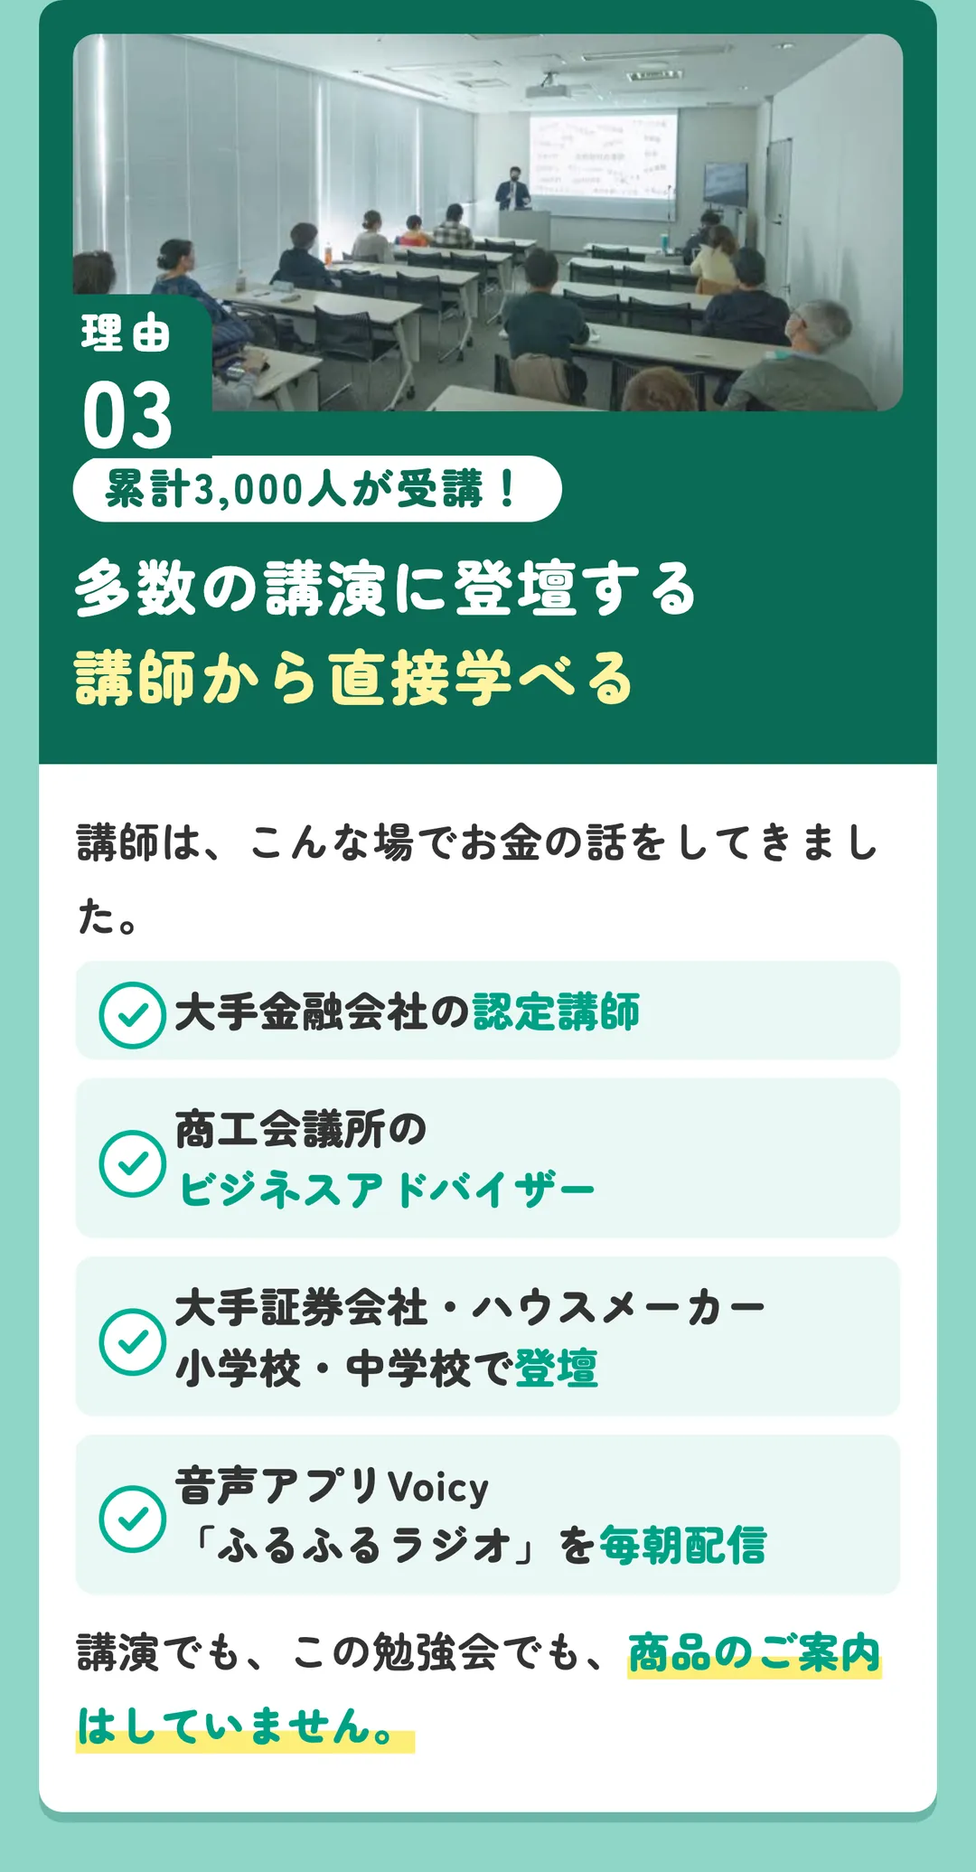
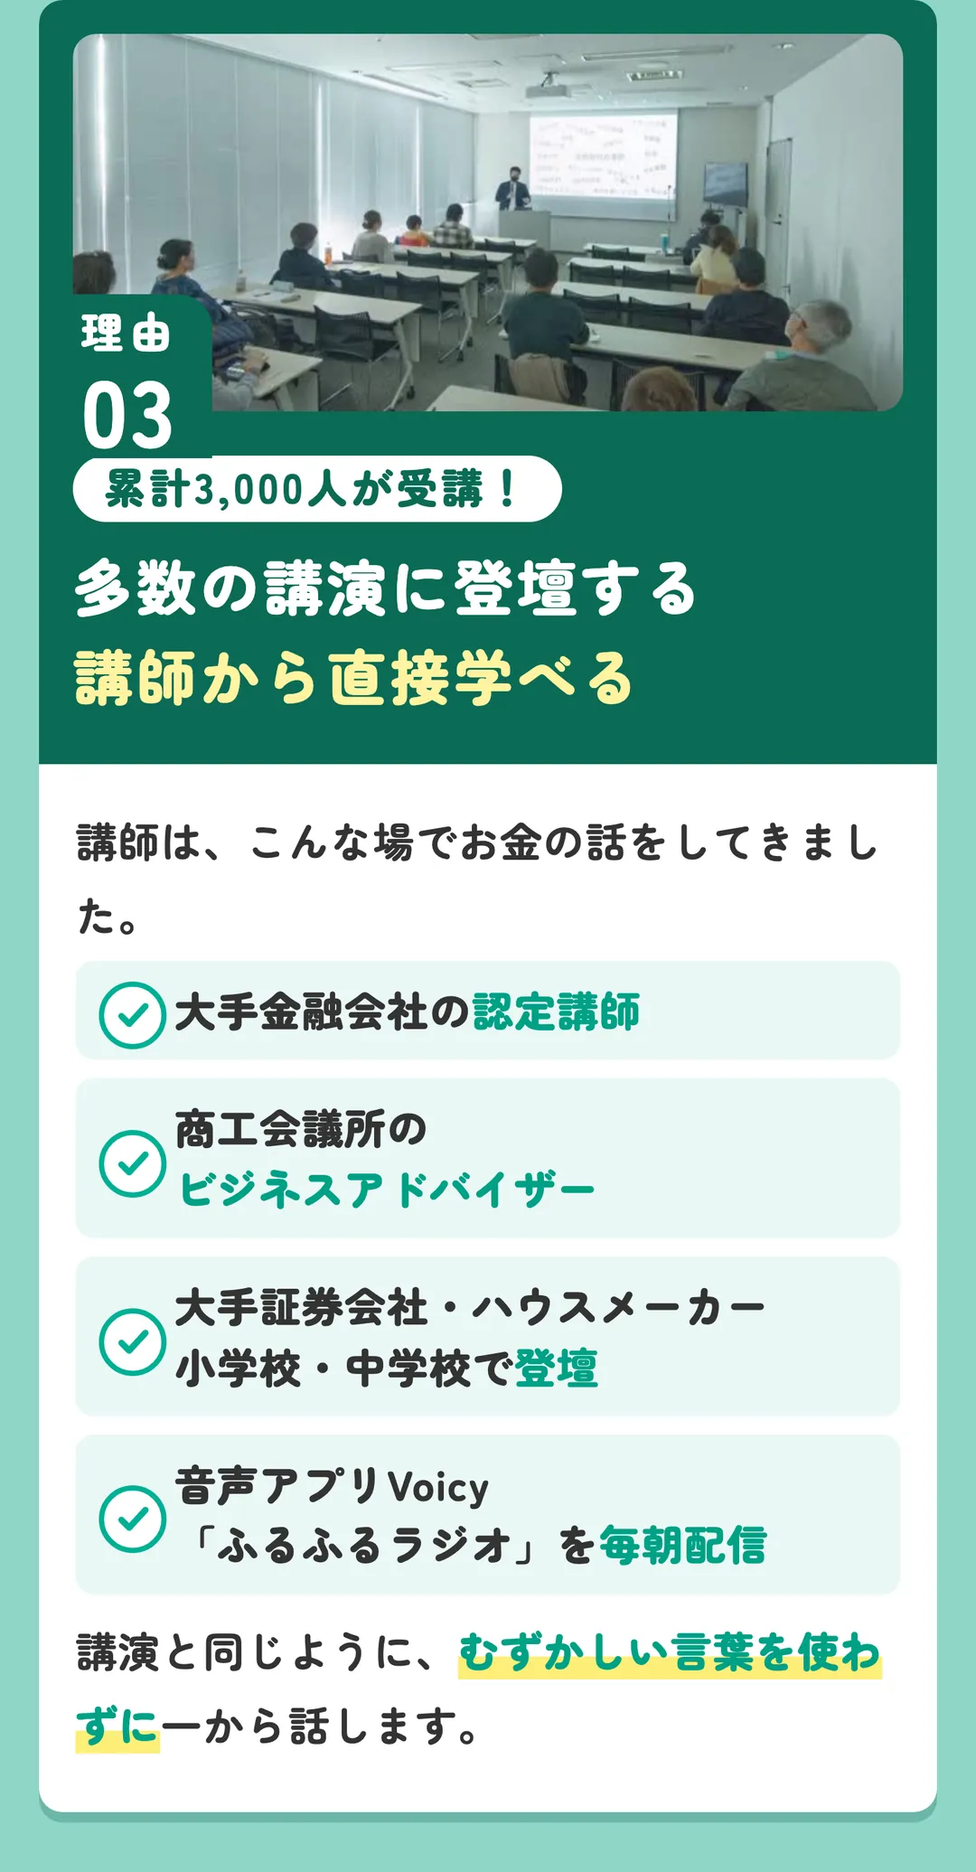
lp・lp-old: 打ち消しの安心文2か所と「10万円を100万円に」を外し、元本割れの注を足す（二次点検）

Changed region(s): [[0.0611, 0.8653, 0.9167, 0.958]]

diff --git a/lp-old/index.html b/lp-old/index.html
@@ -53,7 +53,6 @@ footer li{margin:0 0 6px}
 footer a{color:#fff;text-decoration:underline;font-size:15px}
 footer p{margin:0}
 
-
 /*anim*/
 .fvw{position:relative}
 .fvw .fp{position:absolute;display:block;height:auto;pointer-events:none;transform-origin:50% 85%}
@@ -83,7 +82,6 @@ footer p{margin:0}
  @keyframes bob{0%,100%{translate:0 0}50%{translate:0 calc(var(--u)*-16)}}
 }
 /*/anim*/
-
 
 /*stk*/
 .stk{position:fixed;left:50%;bottom:0;z-index:30;width:min(100vw,560px);transform:translate(-50%,130%);transition:transform .35s ease;padding:10px 14px calc(10px + env(safe-area-inset-bottom,0px));background:linear-gradient(180deg,rgba(255,248,219,0),rgba(255,248,219,.96) 30%)}
@@ -119,9 +117,9 @@ footer p{margin:0}
   <p class="howto">LINEが開いたら<b>「追加」</b>を押すだけ。<br>すぐに日程が届きます。</p>
 </div>
 <img class="s" src="img/10_riyu.webp" width="1080" height="1496" loading="lazy" decoding="async" alt="累計3,000人が受講／正しいお金の／増やし方+守り方／家族で学べるお金のオンライン勉強会に／多くのご家庭が参加する理由／理由01毎月3万円からでも考えられる／理由02家族と一緒にお金について学べる／理由03経験豊富な講師から直接学べる">
-<img class="s" src="img/11_riyu1.webp" width="1080" height="1745" loading="lazy" decoding="async" alt="理由01知識ゼロでもOK！毎月3万円からでも考えられる「無理のない始め方」／お伝えするのは、SNSやネットで見かける「10万円を100万円に」のような話ではありません。／うちの数字を見ながら、毎月いくらなら無理がないかを一緒に出していきます。はじめての方も、口座を作っただけの方も、一から丁寧にお伝えします。">
+<img class="s" src="img/11_riyu1.webp" width="1080" height="1441" loading="lazy" decoding="async" alt="理由01知識ゼロでもOK！毎月3万円からでも考えられる「無理のない始め方」／うちの数字を見ながら、毎月いくらなら無理がないかを一緒に出していきます。はじめての方も、口座を作っただけの方も、一から丁寧にお伝えします。">
 <img class="s" src="img/12_riyu2.webp" width="1080" height="1859" loading="lazy" decoding="async" alt="理由02お一人でも、ご家族でも家族と一緒にお金について学べる／ご夫婦で、親子で。同じ話を一緒に聞けるのが、この勉強会の特徴です。「どうお金を使うか」の意見のズレが減る／お金の話で家族の会話が増える／家族も分かっているから落ち着いて続けられる／もちろん、お一人での参加も大歓迎です。">
-<img class="s" src="img/13_riyu3.webp" width="1080" height="2071" loading="lazy" decoding="async" alt="［写真：会場での勉強会の様子］理由03累計3,000人が受講！多数の講演に登壇する講師から直接学べる／講師は、こんな場でお金の話をしてきました。大手金融会社の認定講師／商工会議所のビジネスアドバイザー／大手証券会社・ハウスメーカー小学校・中学校で登壇／音声アプリVoicy「ふるふるラジオ」を毎朝配信／講演でも、この勉強会でも、商品のご案内はしていません。">
+<img class="s" src="img/13_riyu3.webp" width="1080" height="2071" loading="lazy" decoding="async" alt="［写真：会場での勉強会の様子］理由03累計3,000人が受講！多数の講演に登壇する講師から直接学べる／講師は、こんな場でお金の話をしてきました。大手金融会社の認定講師／商工会議所のビジネスアドバイザー／大手証券会社・ハウスメーカー小学校・中学校で登壇／音声アプリVoicy「ふるふるラジオ」を毎朝配信／講演と同じように、むずかしい言葉を使わずに一から話します。">
 <div class="cta wb" id="cta3"><p class="band">家族何人でも無料！お一人様も大歓迎</p>
   <i class="coin c1"></i><i class="coin c2"></i><i class="coin c3"></i><i class="coin c4"></i>
   <a class="btn js-line" href="https://utage-system.com/line/open/X4Z2lketpu30?mtid=Us2bWvI6KlNU"><span class="pill">無料・顔出し不要・1回1〜3名</span><span class="main">LINEで日程を受け取る</span><span class="sub">お一人でも、ご家族でも</span><span class="arr"></span></a>
@@ -134,7 +132,7 @@ footer p{margin:0}
   <p class="howto">LINEが開いたら<b>「追加」</b>を押すだけ。<br>すぐに日程が届きます。</p>
 </div>
 <img class="s" src="img/15_dochira.webp" width="1080" height="1931" loading="lazy" decoding="async" alt="あなたはどちらを選びますか？／正しい知識を持ってコツコツ育てて／お金に不安を抱えたまま／子どもに自慢されるかっこいい親になる／やりたいことを我慢し続ける老後になる">
-<img class="s" src="img/16_koushi.webp" width="1080" height="3973" loading="lazy" decoding="async" alt="［写真：ホワイトボードの前で話す講師］LECTURER講師紹介／PROFILE／森川満章fulfull株式会社代表／1986年生まれ、岩手出身、横浜在住。3児の父／大手金融会社の認定講師、商工会議所のビジネスアドバイザー／音声アプリVoicy「ふるふるラジオ」を毎朝配信／これまでの登壇先（一部）／大手証券会社／大手ハウスメーカー／大手金融会社／小学校・中学校／講演・授業でも、この勉強会でも、商品のご案内はしていません。／MESSAGE同じ悔しさを、ひとりでも減らしたい。／僕は30歳まで、お金のことをほとんど勉強せず、貯金もないような状態でした。バスケを習っていた息子に「プロになりたい、海外に行きたい」と言われたとき、そのお金の余裕がなく、「諦めて」と言うしかなかった。その夜、「なんてかっこ悪いんだろう」と、人生でいちばん自分がみじめになりました。そこからお金のことをゼロから学び直して、暮らしも、家族との会話も変わりました。同じ悔しさを、ひとりでも減らしたい。それが、この会を無料で続けている理由です。むずかしい言葉は使いません。はじめてでも、途中からでも、大丈夫です。／Voicy「ふるふるラジオ」毎朝配信／YouTube「ふるふるチャンネル」／Instagram@morikawa_fulfull">
+<img class="s" src="img/16_koushi.webp" width="1080" height="3973" loading="lazy" decoding="async" alt="［写真：ホワイトボードの前で話す講師］LECTURER講師紹介／PROFILE／森川満章fulfull株式会社代表／1986年生まれ、岩手出身、横浜在住。3児の父／大手金融会社の認定講師、商工会議所のビジネスアドバイザー／音声アプリVoicy「ふるふるラジオ」を毎朝配信／これまでの登壇先（一部）／大手証券会社／大手ハウスメーカー／大手金融会社／小学校・中学校／講演・授業と同じように、やさしい言葉でお話しします。／MESSAGE同じ悔しさを、ひとりでも減らしたい。／僕は30歳まで、お金のことをほとんど勉強せず、貯金もないような状態でした。バスケを習っていた息子に「プロになりたい、海外に行きたい」と言われたとき、そのお金の余裕がなく、「諦めて」と言うしかなかった。その夜、「なんてかっこ悪いんだろう」と、人生でいちばん自分がみじめになりました。そこからお金のことをゼロから学び直して、暮らしも、家族との会話も変わりました。同じ悔しさを、ひとりでも減らしたい。それが、この会を無料で続けている理由です。むずかしい言葉は使いません。はじめてでも、途中からでも、大丈夫です。／Voicy「ふるふるラジオ」毎朝配信／YouTube「ふるふるチャンネル」／Instagram@morikawa_fulfull">
 <img class="s" src="img/17_saigo.webp" width="1080" height="903" loading="lazy" decoding="async" alt="物価は上がるのに、貯金はそのまま。このままだと、我慢する老後に…でも、50代・60代からでも大丈夫。／まだ間に合う！始めるなら、今日。／家族何人でも無料！お一人様も大歓迎">
 <div class="cta" id="cta5">
   <i class="coin c1"></i><i class="coin c2"></i><i class="coin c3"></i><i class="coin c4"></i>
@@ -144,9 +142,8 @@ footer p{margin:0}
 </main>
 <footer>
   <ul class="links"><li><a href="https://fulfull.jp/lp/privacy.html">プライバシーポリシー</a></li><li><a href="https://fulfull.jp/lp/law.html">特定商取引法に基づく表記</a></li><li><a href="https://fulfull.jp/">fulfull株式会社</a></li></ul>
-  <p>本ページは情報提供を目的としたもので、個別の投資判断を含むものではありません。<br>© fulfull株式会社</p>
+  <p>本ページは情報提供を目的としたもので、個別の投資判断を含むものではありません。<br>投資には元本割れのおそれがあります。<br>© fulfull株式会社</p>
 </footer>
-
 <!--stk--><div class="stk" id="stk"><a class="btn js-line" href="https://utage-system.com/line/open/X4Z2lketpu30?mtid=Us2bWvI6KlNU"><span class="main">LINEで日程を受け取る</span><span class="sub">無料・Zoom・顔出し不要</span><span class="arr"></span></a></div><script>(function(){var k=document.getElementById("stk"),b=[].slice.call(document.querySelectorAll(".cta .btn"));function f(){if(!b.length)return;var h=innerHeight,first=b[0].getBoundingClientRect().bottom<0,vis=b.some(function(x){var r=x.getBoundingClientRect();return r.top<h&&r.bottom>0;});k.classList.toggle("show",first&&!vis);}addEventListener("scroll",f,{passive:true});addEventListener("resize",f);f();})();</script><!--/stk-->
 <script>
 (function(){
@@ -158,7 +155,6 @@ footer p{margin:0}
   btns.forEach(function(a){a.addEventListener('click',function(){window.dataLayer=window.dataLayer||[];window.dataLayer.push({event:'line_click',ref:ref||''});try{if(window.fbq){fbq('trackSingleCustom','1510200123755162','LineClick',{ref:ref||''});}}catch(e){}});});
 })();
 </script>
-
 <script>/*anim*/(function(){
 if(!matchMedia('(prefers-reduced-motion:no-preference)').matches)return;
 document.querySelectorAll('.btn').forEach(function(b){var w=document.createElement('span');w.className='shw';w.innerHTML='<span class="sh"></span>';b.appendChild(w);});

diff --git a/lp/index.html b/lp/index.html
@@ -54,7 +54,6 @@ footer li{margin:0 0 6px}
 footer a{color:#fff;text-decoration:underline;font-size:15px}
 footer p{margin:0}
 
-
 /*anim*/
 .fvw{position:relative}
 .fvw .fp{position:absolute;display:block;height:auto;pointer-events:none;transform-origin:50% 85%}
@@ -84,7 +83,6 @@ footer p{margin:0}
  @keyframes bob{0%,100%{translate:0 0}50%{translate:0 calc(var(--u)*-16)}}
 }
 /*/anim*/
-
 
 /*stk*/
 .stk{position:fixed;left:50%;bottom:0;z-index:30;width:min(100vw,560px);transform:translate(-50%,130%);transition:transform .35s ease;padding:10px 14px calc(10px + env(safe-area-inset-bottom,0px));background:linear-gradient(180deg,rgba(255,248,219,0),rgba(255,248,219,.96) 30%)}
@@ -120,9 +118,9 @@ footer p{margin:0}
   <p class="howto">LINEが開いたら<b>「追加」</b>を押すだけ。<br>すぐに日程が届きます。</p>
 </div>
 <img class="s" src="img/10_riyu.webp" width="1080" height="1496" loading="lazy" decoding="async" alt="累計3,000人が受講／正しいお金の／増やし方+守り方／家族で学べるお金のオンライン勉強会に／多くのご家庭が参加する理由／理由01毎月3万円からでも考えられる／理由02家族と一緒にお金について学べる／理由03経験豊富な講師から直接学べる">
-<img class="s" src="img/11_riyu1.webp" width="1080" height="1745" loading="lazy" decoding="async" alt="理由01知識ゼロでもOK！毎月3万円からでも考えられる「無理のない始め方」／お伝えするのは、SNSやネットで見かける「10万円を100万円に」のような話ではありません。／うちの数字を見ながら、毎月いくらなら無理がないかを一緒に出していきます。はじめての方も、口座を作っただけの方も、一から丁寧にお伝えします。">
+<img class="s" src="img/11_riyu1.webp" width="1080" height="1441" loading="lazy" decoding="async" alt="理由01知識ゼロでもOK！毎月3万円からでも考えられる「無理のない始め方」／うちの数字を見ながら、毎月いくらなら無理がないかを一緒に出していきます。はじめての方も、口座を作っただけの方も、一から丁寧にお伝えします。">
 <img class="s" src="img/12_riyu2.webp" width="1080" height="1859" loading="lazy" decoding="async" alt="理由02お一人でも、ご家族でも家族と一緒にお金について学べる／ご夫婦で、親子で。同じ話を一緒に聞けるのが、この勉強会の特徴です。「どうお金を使うか」の意見のズレが減る／お金の話で家族の会話が増える／家族も分かっているから落ち着いて続けられる／もちろん、お一人での参加も大歓迎です。">
-<img class="s" src="img/13_riyu3.webp" width="1080" height="2071" loading="lazy" decoding="async" alt="［写真：会場での勉強会の様子］理由03累計3,000人が受講！多数の講演に登壇する講師から直接学べる／講師は、こんな場でお金の話をしてきました。大手金融会社の認定講師／商工会議所のビジネスアドバイザー／大手証券会社・ハウスメーカー小学校・中学校で登壇／音声アプリVoicy「ふるふるラジオ」を毎朝配信／講演でも、この勉強会でも、商品のご案内はしていません。">
+<img class="s" src="img/13_riyu3.webp" width="1080" height="2071" loading="lazy" decoding="async" alt="［写真：会場での勉強会の様子］理由03累計3,000人が受講！多数の講演に登壇する講師から直接学べる／講師は、こんな場でお金の話をしてきました。大手金融会社の認定講師／商工会議所のビジネスアドバイザー／大手証券会社・ハウスメーカー小学校・中学校で登壇／音声アプリVoicy「ふるふるラジオ」を毎朝配信／講演と同じように、むずかしい言葉を使わずに一から話します。">
 <div class="cta wb" id="cta3"><p class="band">家族何人でも無料！お一人様も大歓迎</p>
   <i class="coin c1"></i><i class="coin c2"></i><i class="coin c3"></i><i class="coin c4"></i>
   <a class="btn js-line" href="https://utage-system.com/line/open/X4Z2lketpu30?mtid=Us2bWvI6KlNU"><span class="pill">無料・顔出し不要・1回1〜3名</span><span class="main">LINEで日程を受け取る</span><span class="sub">お一人でも、ご家族でも</span><span class="arr"></span></a>
@@ -135,7 +133,7 @@ footer p{margin:0}
   <p class="howto">LINEが開いたら<b>「追加」</b>を押すだけ。<br>すぐに日程が届きます。</p>
 </div>
 <img class="s" src="img/15_dochira.webp" width="1080" height="1931" loading="lazy" decoding="async" alt="あなたはどちらを選びますか？／正しい知識を持ってコツコツ育てて／お金に不安を抱えたまま／子どもに自慢されるかっこいい親になる／やりたいことを我慢し続ける老後になる">
-<img class="s" src="img/16_koushi.webp" width="1080" height="3973" loading="lazy" decoding="async" alt="［写真：ホワイトボードの前で話す講師］LECTURER講師紹介／PROFILE／森川満章fulfull株式会社代表／1986年生まれ、岩手出身、横浜在住。3児の父／大手金融会社の認定講師、商工会議所のビジネスアドバイザー／音声アプリVoicy「ふるふるラジオ」を毎朝配信／これまでの登壇先（一部）／大手証券会社／大手ハウスメーカー／大手金融会社／小学校・中学校／講演・授業でも、この勉強会でも、商品のご案内はしていません。／MESSAGE同じ悔しさを、ひとりでも減らしたい。／僕は30歳まで、お金のことをほとんど勉強せず、貯金もないような状態でした。バスケを習っていた息子に「プロになりたい、海外に行きたい」と言われたとき、そのお金の余裕がなく、「諦めて」と言うしかなかった。その夜、「なんてかっこ悪いんだろう」と、人生でいちばん自分がみじめになりました。そこからお金のことをゼロから学び直して、暮らしも、家族との会話も変わりました。同じ悔しさを、ひとりでも減らしたい。それが、この会を無料で続けている理由です。むずかしい言葉は使いません。はじめてでも、途中からでも、大丈夫です。／Voicy「ふるふるラジオ」毎朝配信／YouTube「ふるふるチャンネル」／Instagram@morikawa_fulfull">
+<img class="s" src="img/16_koushi.webp" width="1080" height="3973" loading="lazy" decoding="async" alt="［写真：ホワイトボードの前で話す講師］LECTURER講師紹介／PROFILE／森川満章fulfull株式会社代表／1986年生まれ、岩手出身、横浜在住。3児の父／大手金融会社の認定講師、商工会議所のビジネスアドバイザー／音声アプリVoicy「ふるふるラジオ」を毎朝配信／これまでの登壇先（一部）／大手証券会社／大手ハウスメーカー／大手金融会社／小学校・中学校／講演・授業と同じように、やさしい言葉でお話しします。／MESSAGE同じ悔しさを、ひとりでも減らしたい。／僕は30歳まで、お金のことをほとんど勉強せず、貯金もないような状態でした。バスケを習っていた息子に「プロになりたい、海外に行きたい」と言われたとき、そのお金の余裕がなく、「諦めて」と言うしかなかった。その夜、「なんてかっこ悪いんだろう」と、人生でいちばん自分がみじめになりました。そこからお金のことをゼロから学び直して、暮らしも、家族との会話も変わりました。同じ悔しさを、ひとりでも減らしたい。それが、この会を無料で続けている理由です。むずかしい言葉は使いません。はじめてでも、途中からでも、大丈夫です。／Voicy「ふるふるラジオ」毎朝配信／YouTube「ふるふるチャンネル」／Instagram@morikawa_fulfull">
 <img class="s" src="img/17_saigo.webp" width="1080" height="903" loading="lazy" decoding="async" alt="物価は上がるのに、貯金はそのまま。このままだと、我慢する老後に…でも、50代・60代からでも大丈夫。／まだ間に合う！始めるなら、今日。／家族何人でも無料！お一人様も大歓迎">
 <div class="cta" id="cta5">
   <i class="coin c1"></i><i class="coin c2"></i><i class="coin c3"></i><i class="coin c4"></i>
@@ -145,9 +143,8 @@ footer p{margin:0}
 </main>
 <footer>
   <ul class="links"><li><a href="https://fulfull.jp/lp/privacy.html">プライバシーポリシー</a></li><li><a href="https://fulfull.jp/lp/law.html">特定商取引法に基づく表記</a></li><li><a href="https://fulfull.jp/">fulfull株式会社</a></li></ul>
-  <p>本ページは情報提供を目的としたもので、個別の投資判断を含むものではありません。<br>© fulfull株式会社</p>
+  <p>本ページは情報提供を目的としたもので、個別の投資判断を含むものではありません。<br>投資には元本割れのおそれがあります。<br>© fulfull株式会社</p>
 </footer>
-
 <!--stk--><div class="stk" id="stk"><a class="btn js-line" href="https://utage-system.com/line/open/X4Z2lketpu30?mtid=Us2bWvI6KlNU"><span class="main">LINEで日程を受け取る</span><span class="sub">無料・Zoom・顔出し不要</span><span class="arr"></span></a></div><script>(function(){var k=document.getElementById("stk"),b=[].slice.call(document.querySelectorAll(".cta .btn"));function f(){if(!b.length)return;var h=innerHeight,first=b[0].getBoundingClientRect().bottom<0,vis=b.some(function(x){var r=x.getBoundingClientRect();return r.top<h&&r.bottom>0;});k.classList.toggle("show",first&&!vis);}addEventListener("scroll",f,{passive:true});addEventListener("resize",f);f();})();</script><!--/stk-->
 <script>
 (function(){
@@ -159,7 +156,6 @@ footer p{margin:0}
   btns.forEach(function(a){a.addEventListener('click',function(){window.dataLayer=window.dataLayer||[];window.dataLayer.push({event:'line_click',ref:ref||''});try{if(window.fbq){fbq('trackSingleCustom','1510200123755162','LineClick',{ref:ref||''});}}catch(e){}});});
 })();
 </script>
-
 <script>/*anim*/(function(){
 if(!matchMedia('(prefers-reduced-motion:no-preference)').matches)return;
 document.querySelectorAll('.btn').forEach(function(b){var w=document.createElement('span');w.className='shw';w.innerHTML='<span class="sh"></span>';b.appendChild(w);});
